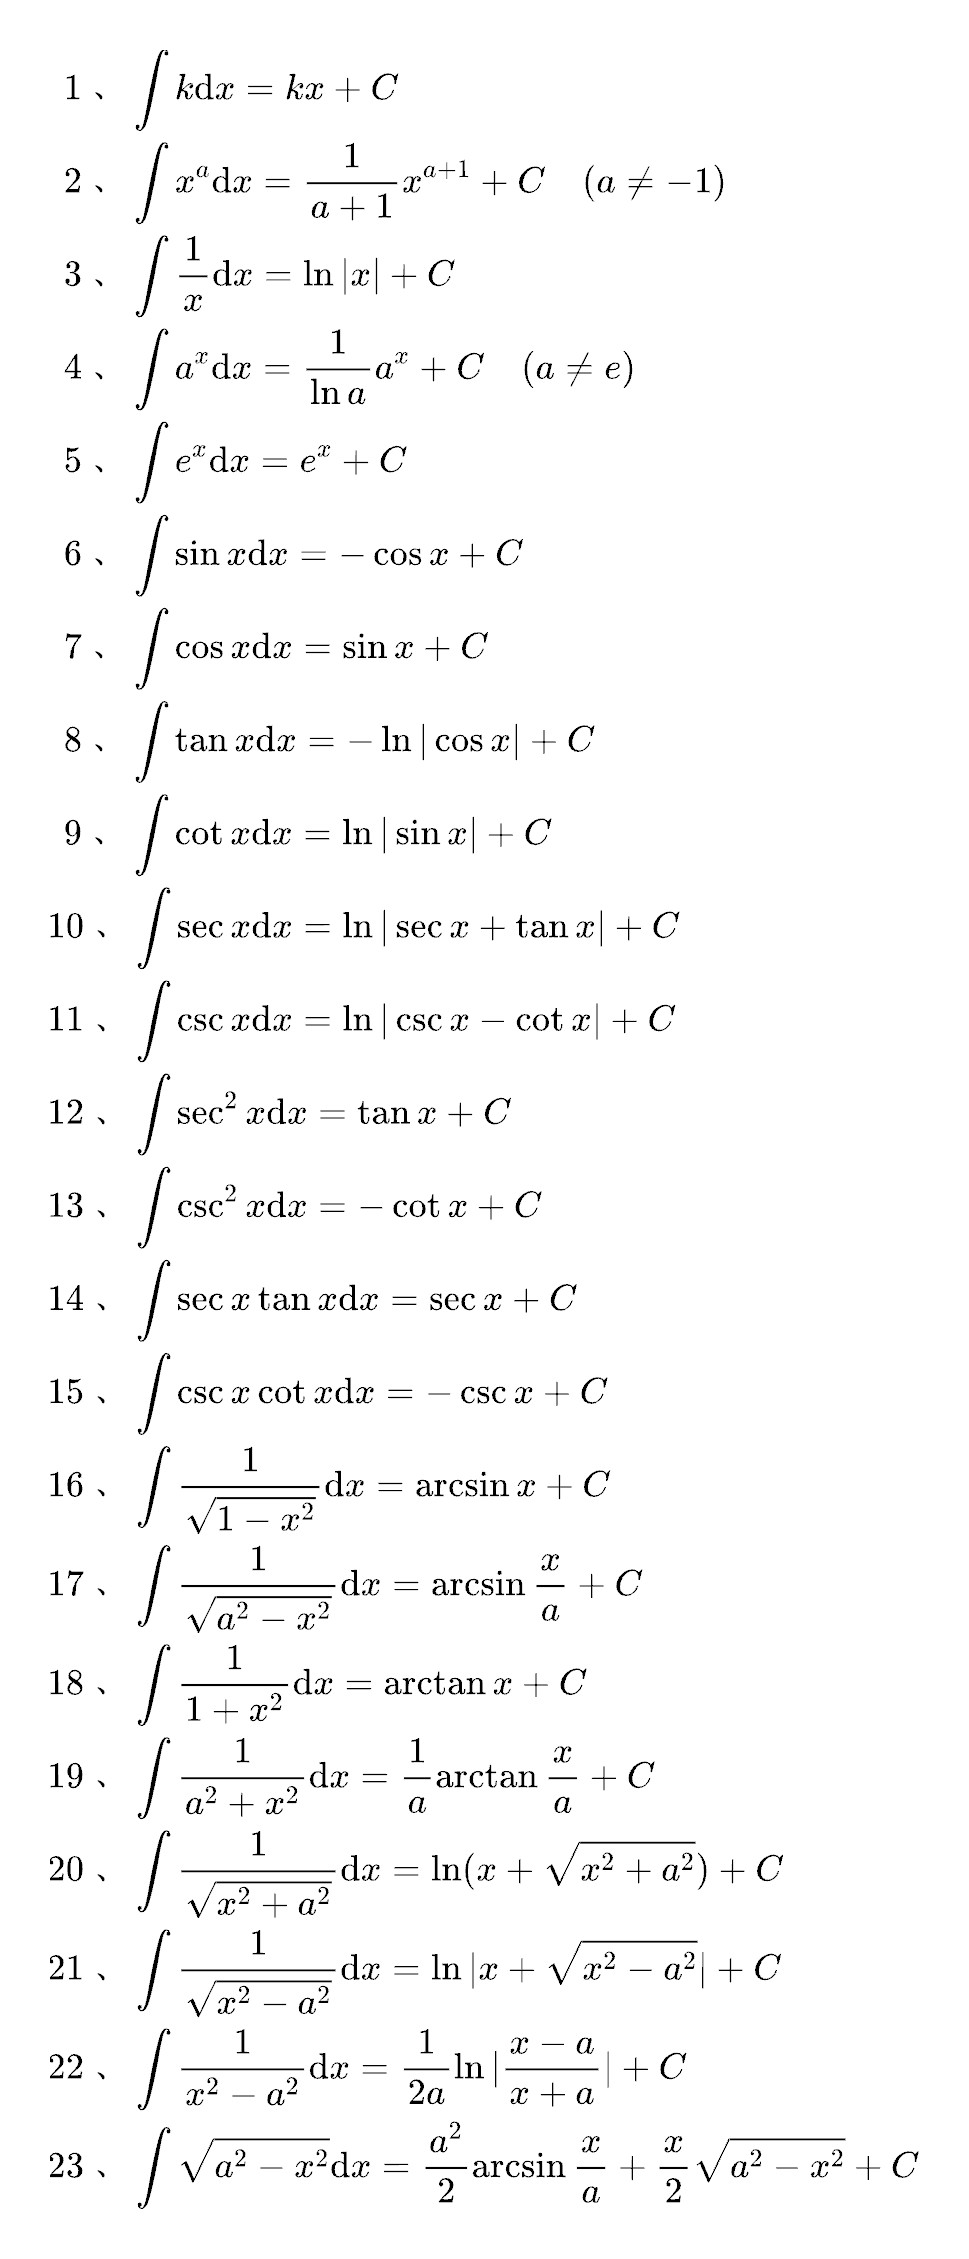
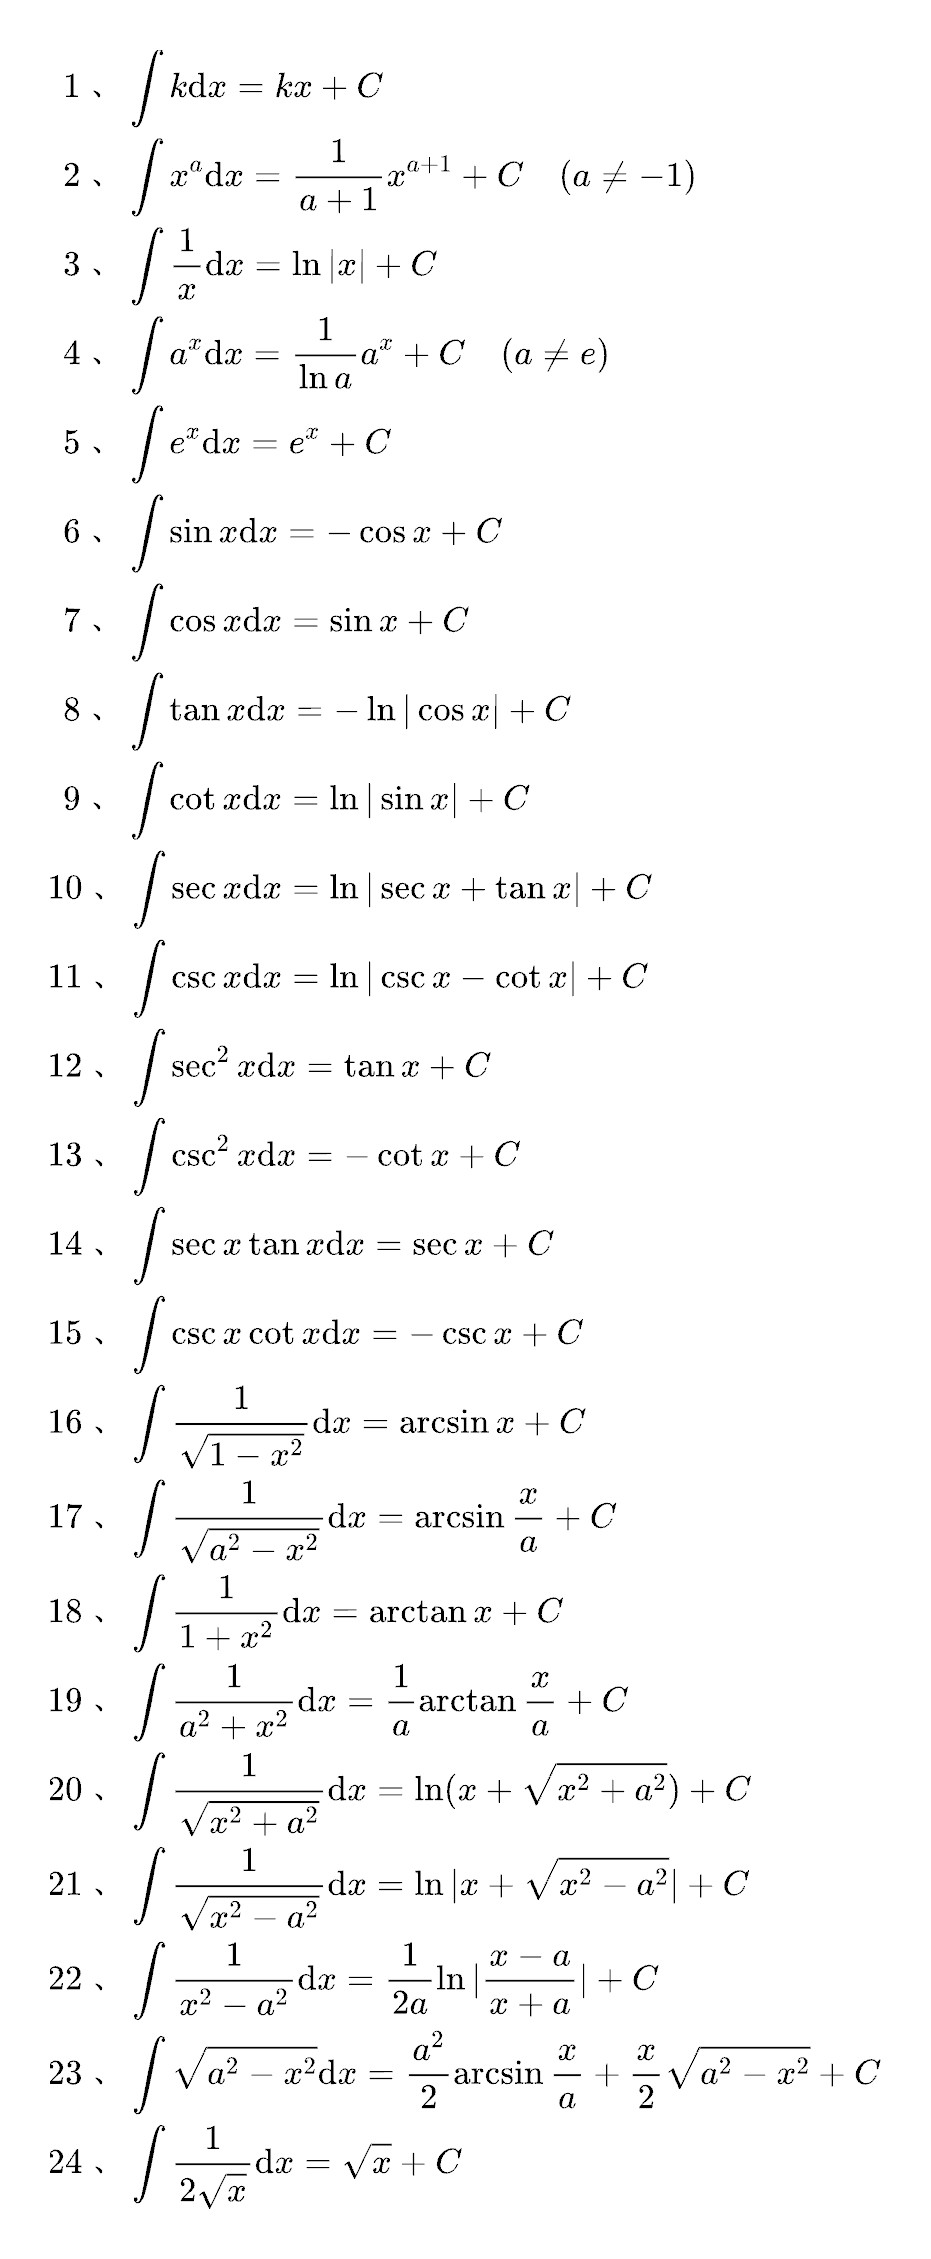
1

diff --git a/base/math/src/further_mathematics/definite_integral2.md b/base/math/src/further_mathematics/definite_integral2.md
@@ -1,5 +1,44 @@
 # 换元积分法
 
-<!--
+例题 1
 
+<!--
+\begin{align}
+& \;\;\;\; \int_{0}^{4} \frac{x + 1}{\sqrt{2x + 1}} \mathrm{d}x \\
+& 方法1 \\
+& {\color{Green} // 分子分母同乘2} \\
+& = \int_{0}^{4} \frac{2x + 2}{2\sqrt{2x + 1}} \mathrm{d}x \\
+& = \frac{1}{2} \int_{0}^{4} \frac{2x + 1 + 1}{\sqrt{2x + 1}} \mathrm{d}x \\
+& = \frac{1}{4} \int_{0}^{4} \frac{2x + 1 + 1}{\sqrt{2x + 1}} \mathrm{d}(2x + 1) \\
+& = \frac{1}{4} \int_{0}^{4} \frac{2x + 1}{\sqrt{2x + 1}} \mathrm{d}(2x + 1) +
+\frac{1}{4} \int_{0}^{4} \frac{1}{\sqrt{2x + 1}} \mathrm{d}(2x + 1) \\
+& = \frac{1}{4} \int_{0}^{4} \sqrt{2x + 1} \mathrm{d}(2x + 1) +
+\frac{1}{2} \int_{0}^{4} \frac{1}{2\sqrt{2x + 1}} \mathrm{d}(2x + 1) \\
+& = \frac{1}{4} \int_{0}^{4} (2x + 1)^{\frac{1}{2}} \mathrm{d}(2x + 1) +
+\frac{1}{2} \int_{0}^{4} \frac{1}{2\sqrt{2x + 1}} \mathrm{d}(2x + 1) \\
+& = \frac{1}{4} \times \frac{2}{3} (2x + 1)^{\frac{3}{2}} \big|_{0}^{4} +
+\frac{1}{2} \int_{0}^{4} \frac{1}{2\sqrt{2x + 1}} \mathrm{d}(2x + 1) \\
+& {\color{Green} // \int \frac{1}{2\sqrt{x}} \mathrm{d}x = \sqrt{x} + C} \\
+& = \frac{1}{4} \times \frac{2}{3} (2x + 1)^{\frac{3}{2}} \big|_{0}^{4} +
+\frac{1}{2} \sqrt{2x + 1}  \big|_{0}^{4} \\
+& = \frac{16}{3} \\
+\\
+& 方法2 \\
+& {\color{Green} // 令 \sqrt{2x + 1} = t, 则 x = \frac{1}{2}(t^2 - 1)} \\
+& {\color{Green} // 0到4是x的积分上下限, 需要换成t的} \\
+& {\color{Green} // x取0时 t = \sqrt{2 \times 0 + 1} = 1} \\
+& {\color{Green} // x取4时 t = \sqrt{2 \times 4 + 1} = 3} \\
+& = \int_{1}^{3} \frac{\frac{1}{2}(t^2 - 1) + 1}{\sqrt{2 \frac{1}{2}(t^2 - 1) + 1}}
+\mathrm{d}[\frac{1}{2}(t^2 - 1)] \\
+& = \int_{1}^{3} \frac{\frac{1}{2}(t^2 + 1)}{t} \mathrm{d}[\frac{1}{2}t^2 - \frac{1}{2}] \\
+& = \int_{1}^{3} \frac{\frac{1}{2}(t^2 + 1)}{t} t \mathrm{d}t \\
+& = \frac{1}{2} \int_{1}^{3} (t^2 + 1) \mathrm{d}t \\
+& = \frac{1}{2} \int_{1}^{3} t^2 \mathrm{d}t + \frac{1}{2} \int_{1}^{3} 1 \mathrm{d}t \\
+& = \frac{1}{2} \frac{t^3}{3} \big|_{1}^{3} + \frac{1}{2} t \big|_{1}^{3} \\
+& = \frac{16}{3} \\
+\end{align}
 -->
+
+![](../img/di2_1.jpg)
+
+例题 2

diff --git a/programming/Java/md/gc/src/jdk21/g1/mac_jdk21.md b/programming/Java/md/gc/src/jdk21/g1/mac_jdk21.md
@@ -151,7 +151,7 @@ br set -n main -o true -G true -C "pro hand -p true -s false SIGILL"
 
 ```sh
 make clean
-bash ./configure --with-boot-jdk="/Users/walter/walter/jdk/jdk-21.0.2.jdk" --with-target-bits=64 --with-freetype-lib=/opt/homebrew/Cellar/freetype/2.13.2/lib --with-freetype-include=/opt/homebrew/Cellar/freetype/2.13.2/include --with-jvm-variants=server,client --disable-warnings-as-errors --with-debug-level=slowdebug
+bash ./configure --with-boot-jdk="/Users/walter/walter/jdk/jdk-21.0.2.jdk" --with-target-bits=64 --with-freetype-lib=/opt/homebrew/Cellar/freetype/2.13.2/lib --with-freetype-include=/opt/homebrew/Cellar/freetype/2.13.2/include --with-jvm-variants=server --disable-warnings-as-errors --with-debug-level=slowdebug
 make
 make compile-commands
 ```

diff --git a/base/math/src/further_mathematics/indefinite_integral.md b/base/math/src/further_mathematics/indefinite_integral.md
@@ -68,6 +68,7 @@
 & 22、\int \frac{1}{x^2 - a^2} \mathrm{d}x = \frac{1}{2a} \ln | \frac{x - a}{x + a} | + C \\
 & 23、\int \sqrt{a^2 - x^2} \mathrm{d}x = \frac{a^2}{2} \arcsin \frac{x}{a} +
 \frac{x}{2} \sqrt{a^2 - x^2} + C \\
+& 24、\int \frac{1}{2\sqrt{x}} \mathrm{d}x = \sqrt{x} + C \\
 \end{align}
 -->
 
